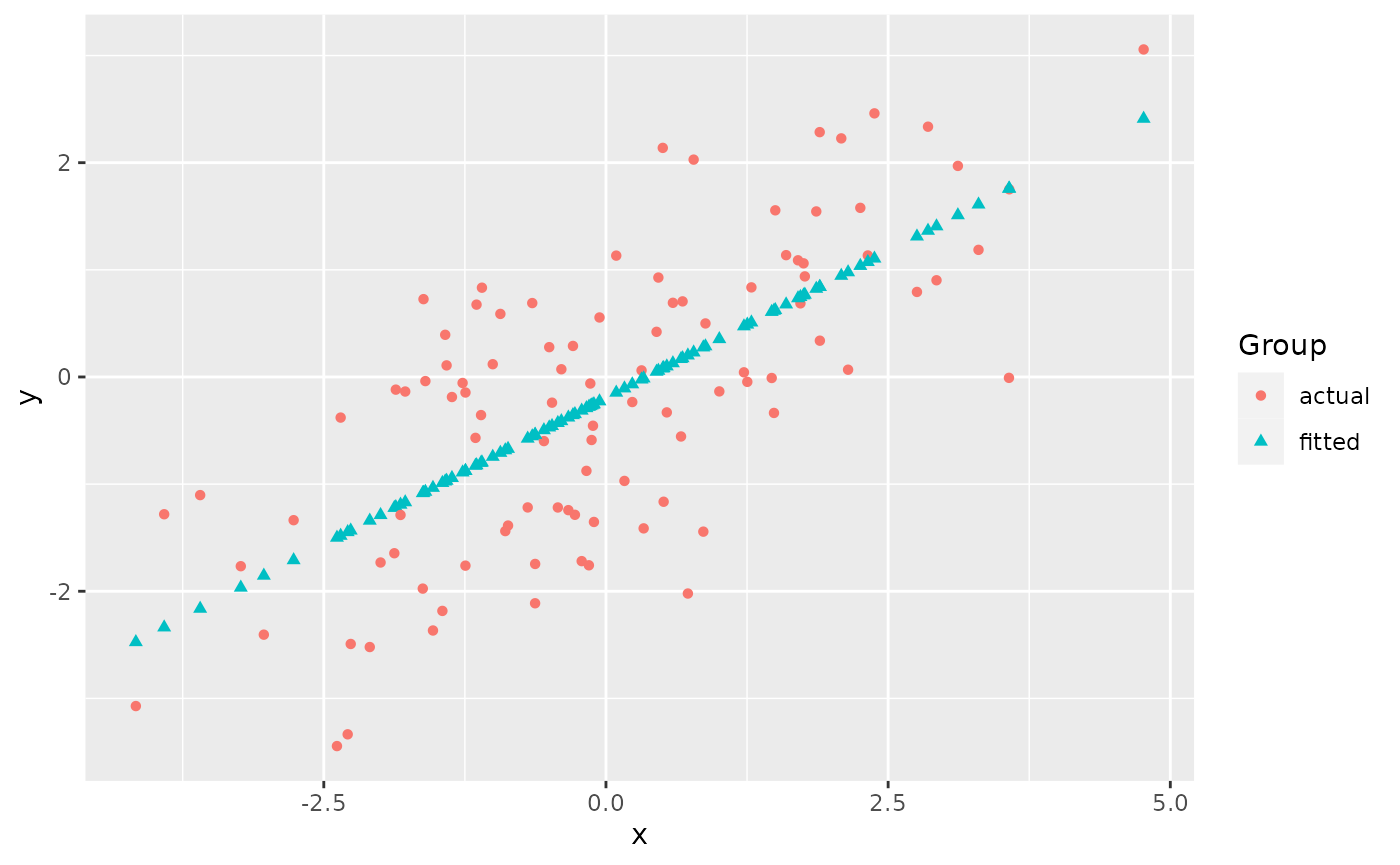
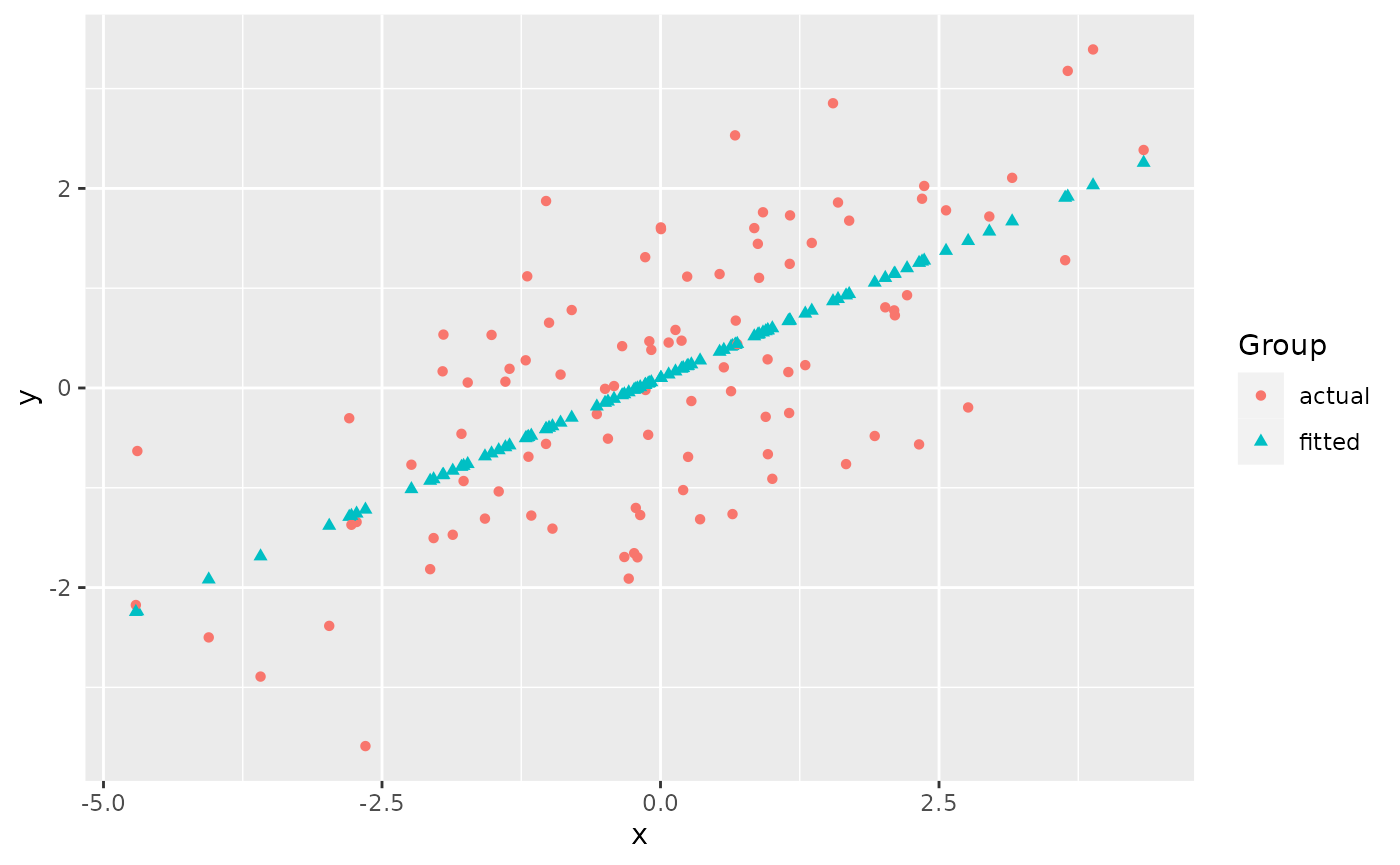
Built site for ggmatplot: 0.1.0@936ac98

diff --git a/articles/ggmatplot.html b/articles/ggmatplot.html
@@ -101,7 +101,7 @@
 <span class="va">x</span> <span class="op">&lt;-</span> <span class="fu"><a href="https://rdrr.io/r/base/c.html">c</a></span><span class="op">(</span><span class="fu"><a href="https://rdrr.io/r/stats/Normal.html">rnorm</a></span><span class="op">(</span><span class="fl">100</span>, sd <span class="op">=</span> <span class="fl">2</span><span class="op">)</span><span class="op">)</span>
 
 <span class="fu"><a href="https://rdrr.io/r/utils/head.html">head</a></span><span class="op">(</span><span class="va">x</span><span class="op">)</span>
-<span class="co">#&gt; [1]  0.1637233 -2.7673036  0.5929364 -1.4243308 -1.1559698 -1.4493095</span>
+<span class="co">#&gt; [1]  2.9516127  0.5683863 -0.1106689  0.8417690 -2.9737480  1.9229884</span>
 
 <span class="co"># matrix z</span>
 <span class="va">y</span> <span class="op">&lt;-</span> <span class="va">x</span> <span class="op">*</span> <span class="fl">0.5</span> <span class="op">+</span> <span class="fu"><a href="https://rdrr.io/r/stats/Normal.html">rnorm</a></span><span class="op">(</span><span class="fl">100</span>, sd <span class="op">=</span> <span class="fl">1</span><span class="op">)</span>
@@ -111,12 +111,12 @@
 
 <span class="fu"><a href="https://rdrr.io/r/utils/head.html">head</a></span><span class="op">(</span><span class="va">z</span><span class="op">)</span>
 <span class="co">#&gt;       actual     fitted</span>
-<span class="co">#&gt; 1 -0.9702900 -0.1063129</span>
-<span class="co">#&gt; 2 -1.3366816 -1.7098082</span>
-<span class="co">#&gt; 3  0.6921649  0.1284994</span>
-<span class="co">#&gt; 4  0.3937094 -0.9750996</span>
-<span class="co">#&gt; 5 -0.5684353 -0.8282857</span>
-<span class="co">#&gt; 6 -2.1834832 -0.9887649</span></code></pre></div>
+<span class="co">#&gt; 1  1.7184347  1.5678451</span>
+<span class="co">#&gt; 2  0.2068167  0.3820567</span>
+<span class="co">#&gt; 3 -0.4693943  0.0441888</span>
+<span class="co">#&gt; 4  1.6022769  0.5180799</span>
+<span class="co">#&gt; 5 -2.3840195 -1.3803531</span>
+<span class="co">#&gt; 6 -0.4810164  1.0560469</span></code></pre></div>
 <p><code>ggmatplot</code> plots vector <code>x</code> against each column of matrix <code>z</code> using the default <code>plot_type = "point"</code>. This will be represented on the resulting plot as two groups, identified using different shapes and colors.</p>
 <div class="sourceCode" id="cb2"><pre class="downlit sourceCode r">
 <code class="sourceCode R"><span class="kw"><a href="https://rdrr.io/r/base/library.html">library</a></span><span class="op">(</span><span class="va"><a href="https://github.com/xuan-liang/ggmatplot">ggmatplot</a></span><span class="op">)</span>

diff --git a/index.html b/index.html
@@ -309,7 +309,7 @@
 <li>Xuan Liang <br><small class="roles"> Author, maintainer </small> <a href="https://orcid.org/0000-0002-0792-3751" target="orcid.widget" aria-label="ORCID"><span class="fab fa-orcid orcid" aria-hidden="true"></span></a> </li>
 <li>Francis K. C. Hui <br><small class="roles"> Author </small> <a href="https://orcid.org/0000-0003-0765-3533" target="orcid.widget" aria-label="ORCID"><span class="fab fa-orcid orcid" aria-hidden="true"></span></a> </li>
 <li>Emi Tanaka <br><small class="roles"> Author </small> <a href="https://orcid.org/0000-0002-1455-259X" target="orcid.widget" aria-label="ORCID"><span class="fab fa-orcid orcid" aria-hidden="true"></span></a> </li>
-<li>Dilinie Seimon <br><small class="roles"> Author </small>  </li>
+<li>Dilinie Seimon <br><small class="roles"> Author </small> <a href="https://orcid.org/0000-0003-4431-6077" target="orcid.widget" aria-label="ORCID"><span class="fab fa-orcid orcid" aria-hidden="true"></span></a> </li>
 </ul>
 </div>
 

diff --git a/authors.html b/authors.html
@@ -150,7 +150,7 @@
         </p>
       </li>
       <li>
-        <p><strong>Dilinie Seimon</strong>. Author. 
+        <p><strong>Dilinie Seimon</strong>. Author. <a href='https://orcid.org/0000-0003-4431-6077' target='orcid.widget' aria-label='ORCID'><span class='fab fa-orcid orcid' aria-hidden='true'></span></a>
         </p>
       </li>
     </ul>
